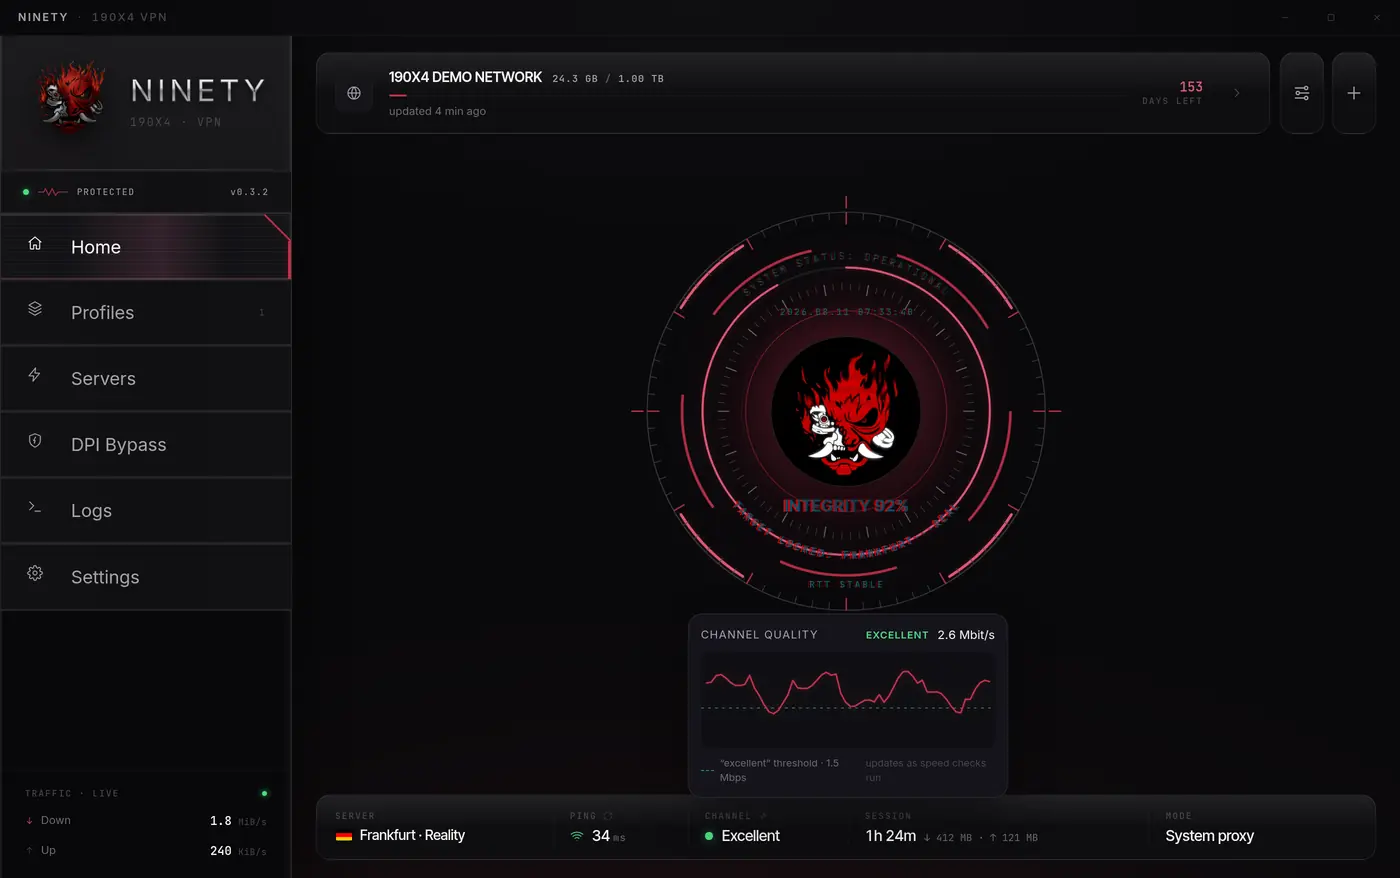
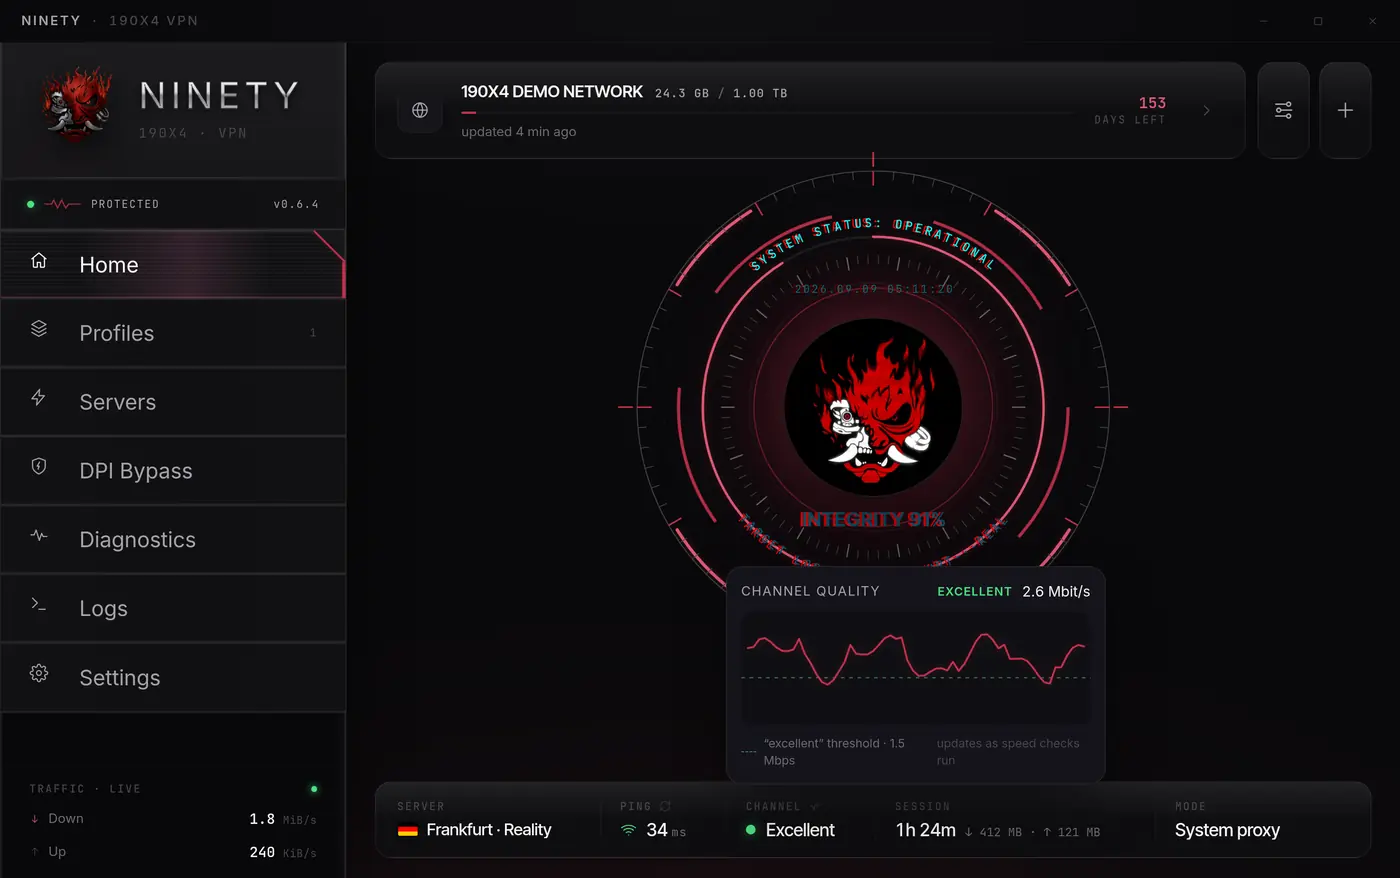
Refresh the site screenshots and add a Diagnostics tab

diff --git a/site/app.js b/site/app.js
@@ -41,6 +41,7 @@ const translations = {
     "screens.home": "Главная",
     "screens.nodes": "Серверы",
     "screens.profiles": "Профили",
+    "screens.diagnose": "Диагностика",
     "screens.settings": "Настройки",
     "screens.quality": "Качество",
     "docs.kicker": "Документация",
@@ -117,6 +118,7 @@ const translations = {
     "screens.home": "Home",
     "screens.nodes": "Servers",
     "screens.profiles": "Profiles",
+    "screens.diagnose": "Diagnostics",
     "screens.settings": "Settings",
     "screens.quality": "Quality",
     "docs.kicker": "Documentation",
@@ -183,6 +185,13 @@ const screens = {
     alt: {
       ru: "Экран профилей Ninety",
       en: "Ninety profiles screen",
+    },
+  },
+  diagnose: {
+    src: "assets/screen-diagnose.webp",
+    alt: {
+      ru: "Экран диагностики Ninety",
+      en: "Ninety diagnostics screen",
     },
   },
   settings: {

diff --git a/site/index.html b/site/index.html
@@ -152,6 +152,7 @@
               <button class="screen-tab is-active" type="button" data-screen="home" data-i18n="screens.home">Home</button>
               <button class="screen-tab" type="button" data-screen="nodes" data-i18n="screens.nodes">Servers</button>
               <button class="screen-tab" type="button" data-screen="profiles" data-i18n="screens.profiles">Profiles</button>
+              <button class="screen-tab" type="button" data-screen="diagnose" data-i18n="screens.diagnose">Diagnostics</button>
               <button class="screen-tab" type="button" data-screen="settings" data-i18n="screens.settings">Settings</button>
               <button class="screen-tab" type="button" data-screen="quality" data-i18n="screens.quality">Quality</button>
             </div>

diff --git a/site/styles.css b/site/styles.css
@@ -412,7 +412,7 @@ h3 {
 
 .screen-tabs {
   display: grid;
-  grid-template-columns: repeat(5, minmax(0, 1fr));
+  grid-template-columns: repeat(6, minmax(0, 1fr));
   gap: 6px;
   margin-bottom: 10px;
 }
